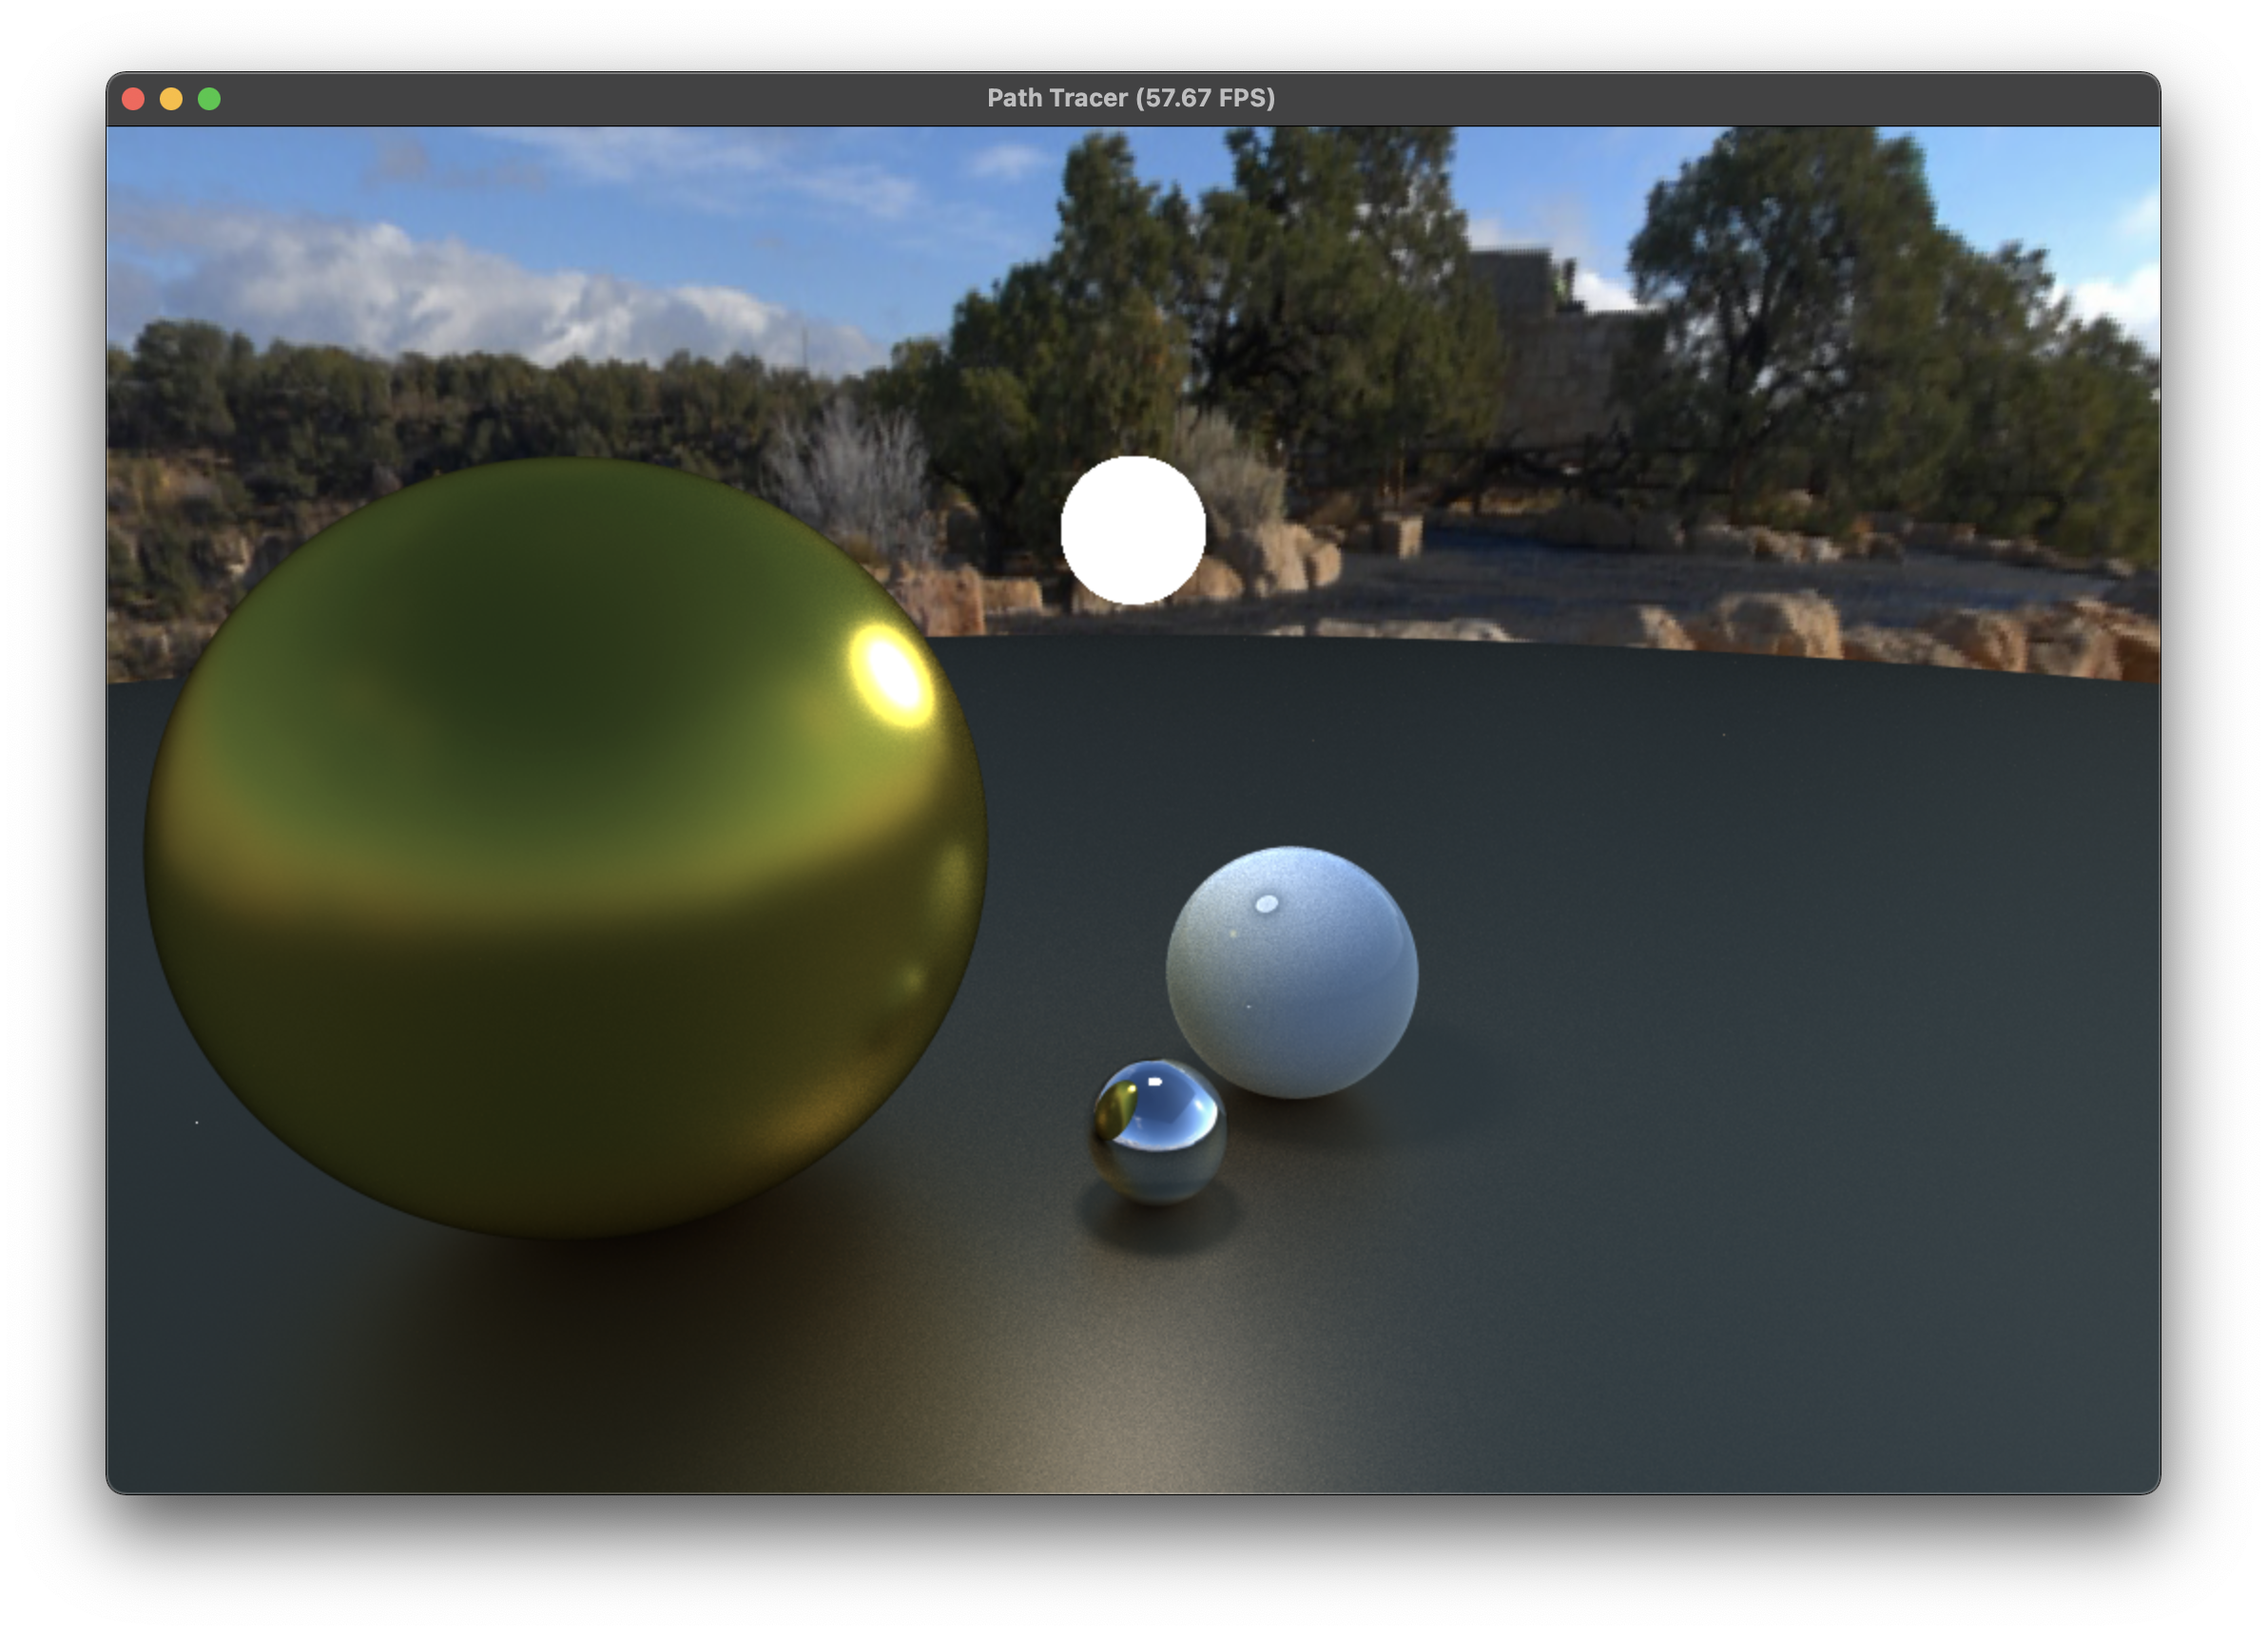
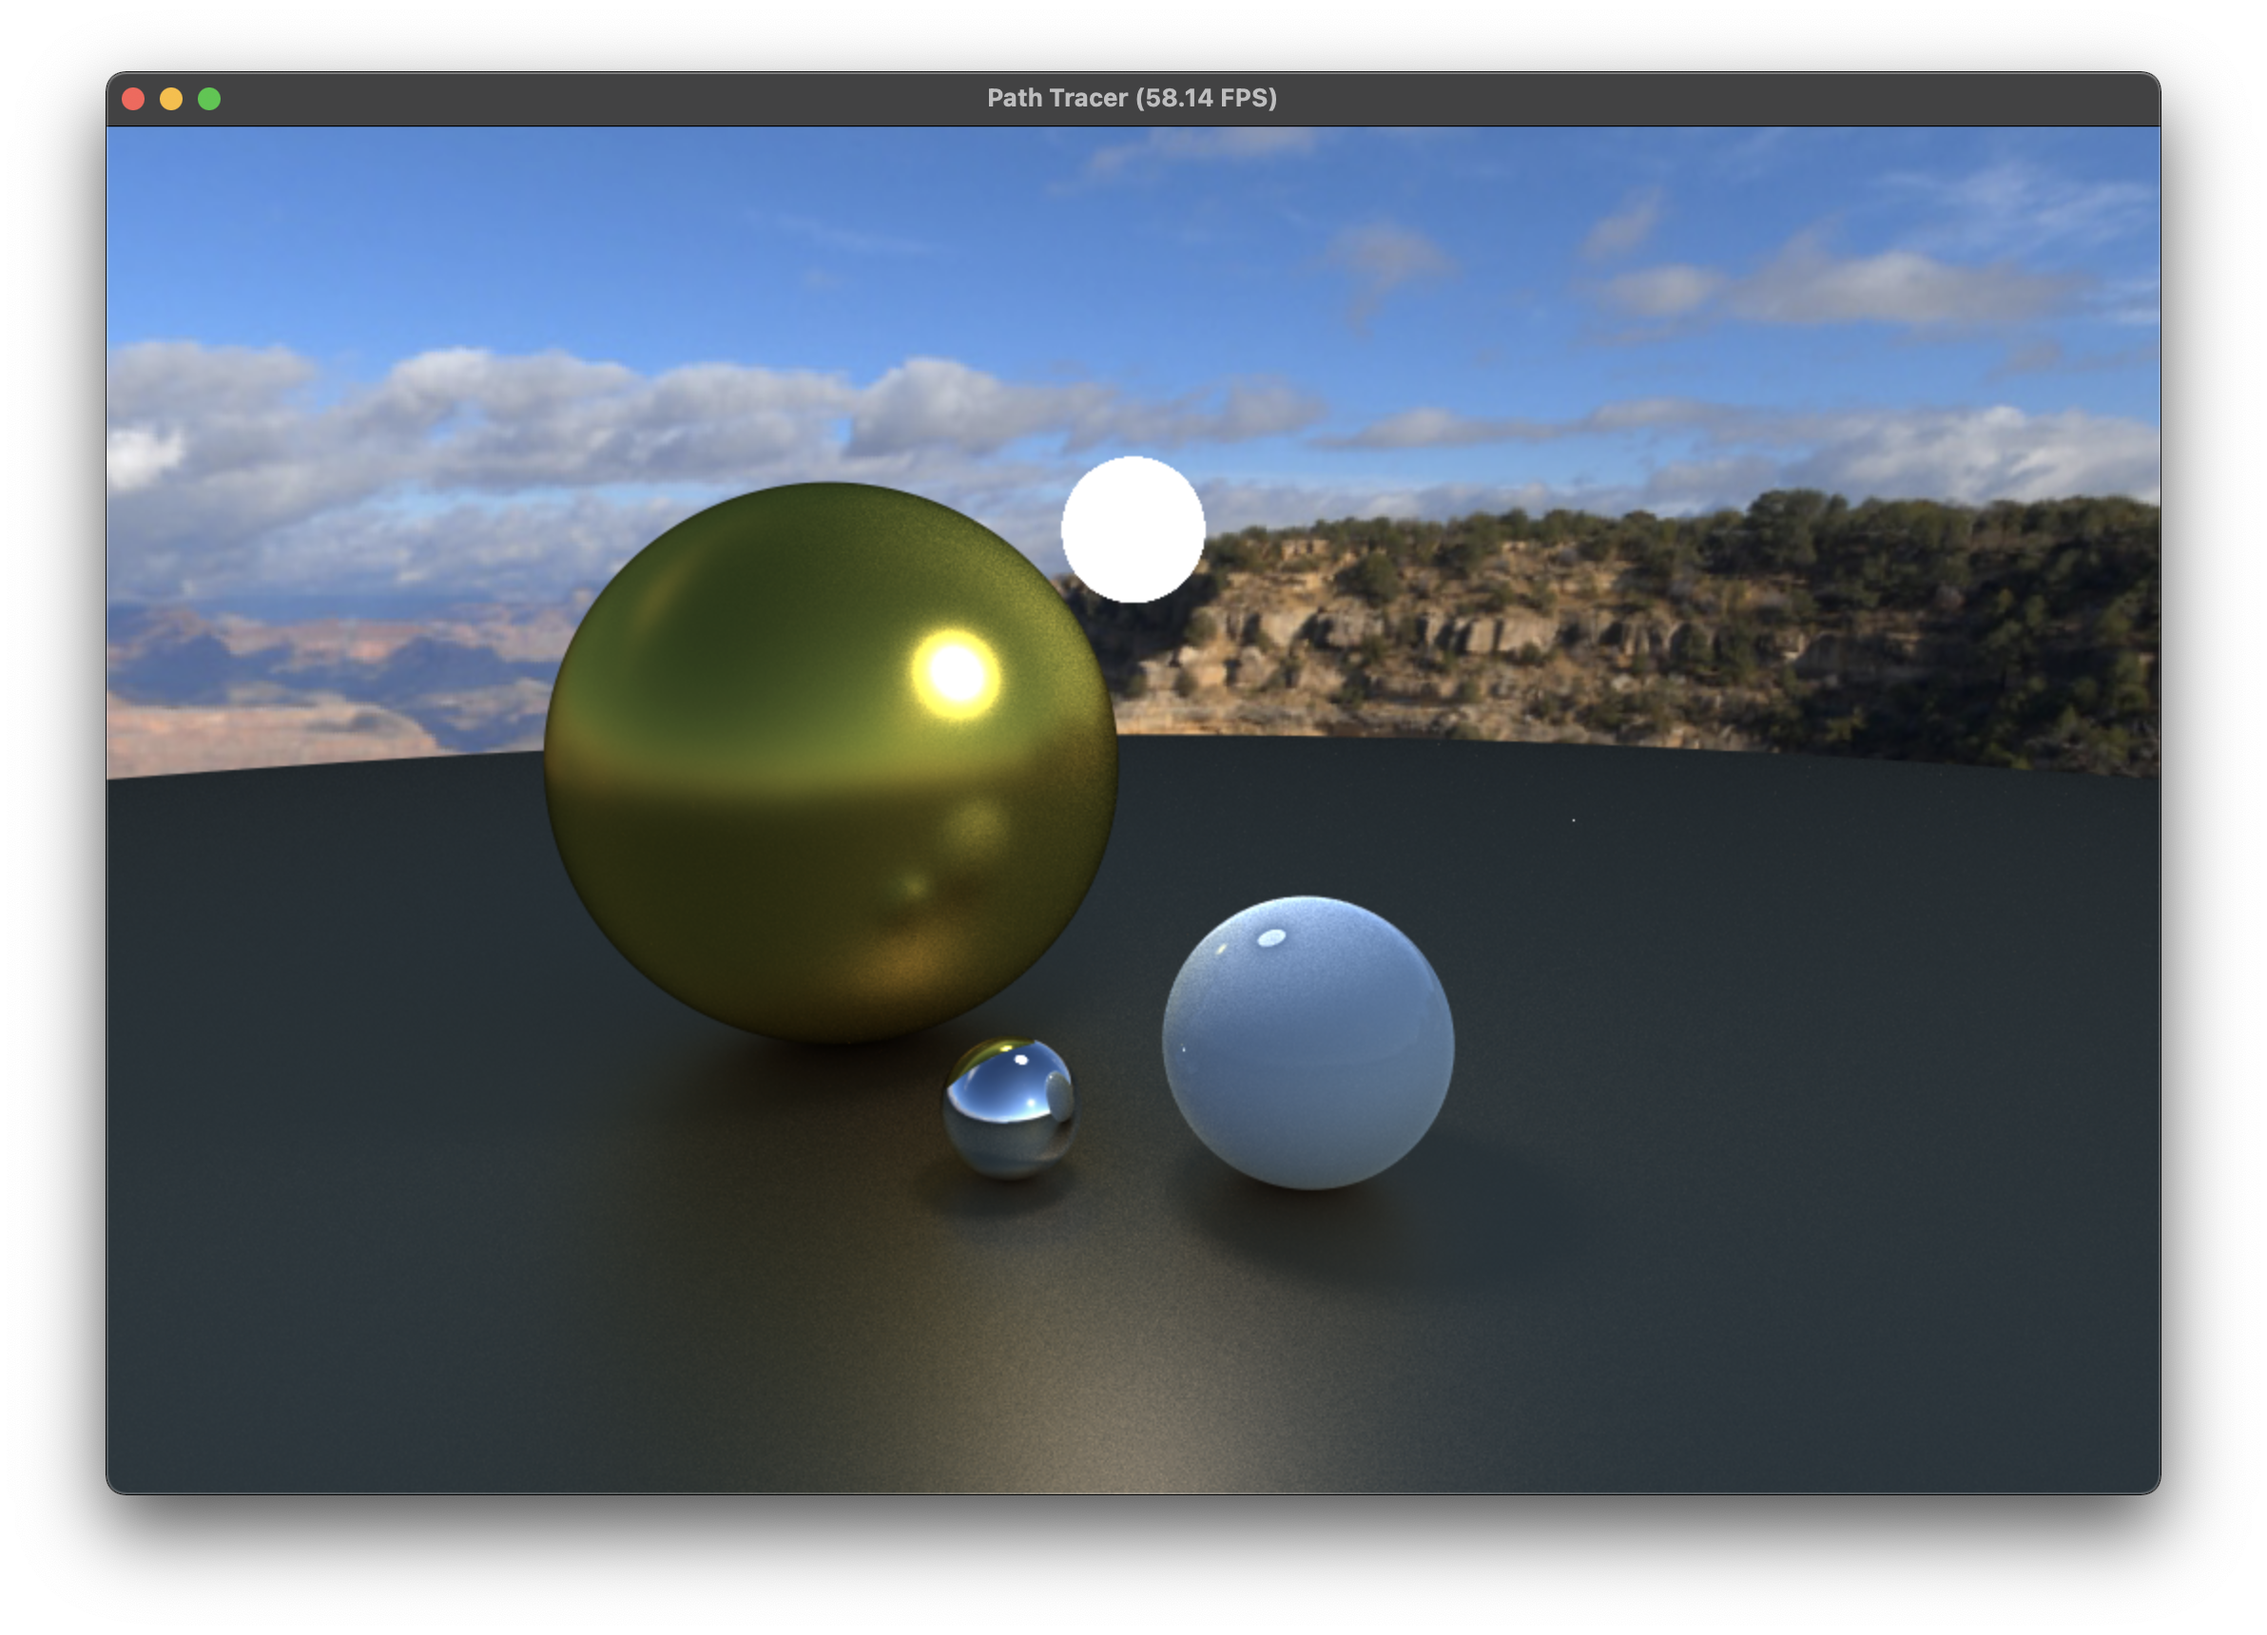
fix cube sampling...

diff --git a/pt.py b/pt.py
@@ -135,22 +135,22 @@ def cubemap_coord(dir):
     coor = ti.Vector([0., 0.])
     if dir.z >= 0 and dir.z >= abs(dir.y) - eps and dir.z >= abs(dir.x) - eps:
         coor = ti.Vector([3 / 8, 1 / 2]) + \
-            ti.Vector([dir.x, dir.y]) / dir.z / 8
+            ti.Vector([dir.x / 8, dir.y / 6]) / dir.z
     if dir.z <= 0 and -dir.z >= abs(dir.y) - eps and -dir.z >= abs(dir.x) - eps:
         coor = ti.Vector([7 / 8, 1 / 2]) + \
-            ti.Vector([-dir.x, dir.y]) / -dir.z / 8
+            ti.Vector([-dir.x / 8, dir.y / 6]) / -dir.z
     if dir.x <= 0 and -dir.x >= abs(dir.y) - eps and -dir.x >= abs(dir.z) - eps:
         coor = ti.Vector([1 / 8, 1 / 2]) + \
-            ti.Vector([dir.z, dir.y]) / -dir.x / 8
+            ti.Vector([dir.z / 8, dir.y / 6]) / -dir.x
     if dir.x >= 0 and dir.x >= abs(dir.y) - eps and dir.x >= abs(dir.z) - eps:
         coor = ti.Vector([5 / 8, 1 / 2]) + \
-            ti.Vector([-dir.z, dir.y]) / dir.x / 8
+            ti.Vector([-dir.z / 8, dir.y / 6]) / dir.x
     if dir.y >= 0 and dir.y >= abs(dir.x) - eps and dir.y >= abs(dir.z) - eps:
         coor = ti.Vector([3 / 8, 5 / 6]) + \
-            ti.Vector([dir.x, -dir.z]) / dir.y / 8
+            ti.Vector([dir.x / 8, -dir.z / 6]) / dir.y
     if dir.y <= 0 and -dir.y >= abs(dir.x) - eps and -dir.y >= abs(dir.z) - eps:
         coor = ti.Vector([3 / 8, 1 / 6]) + \
-            ti.Vector([dir.x, dir.z]) / -dir.y / 8
+            ti.Vector([dir.x / 8, dir.z / 6]) / -dir.y
     return coor
 
 
